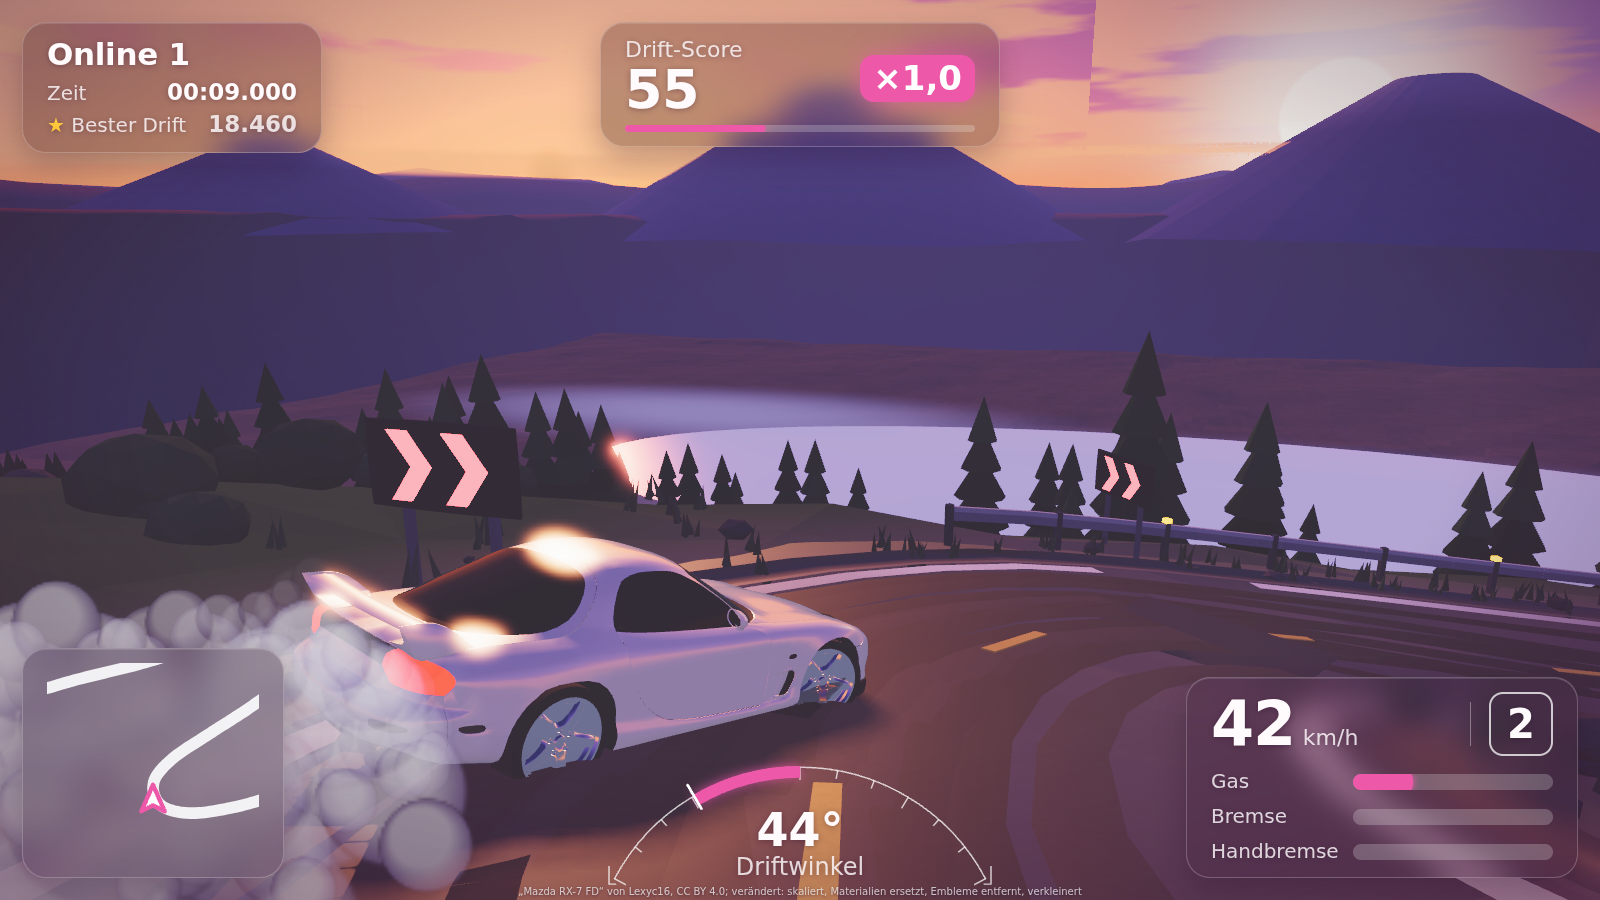
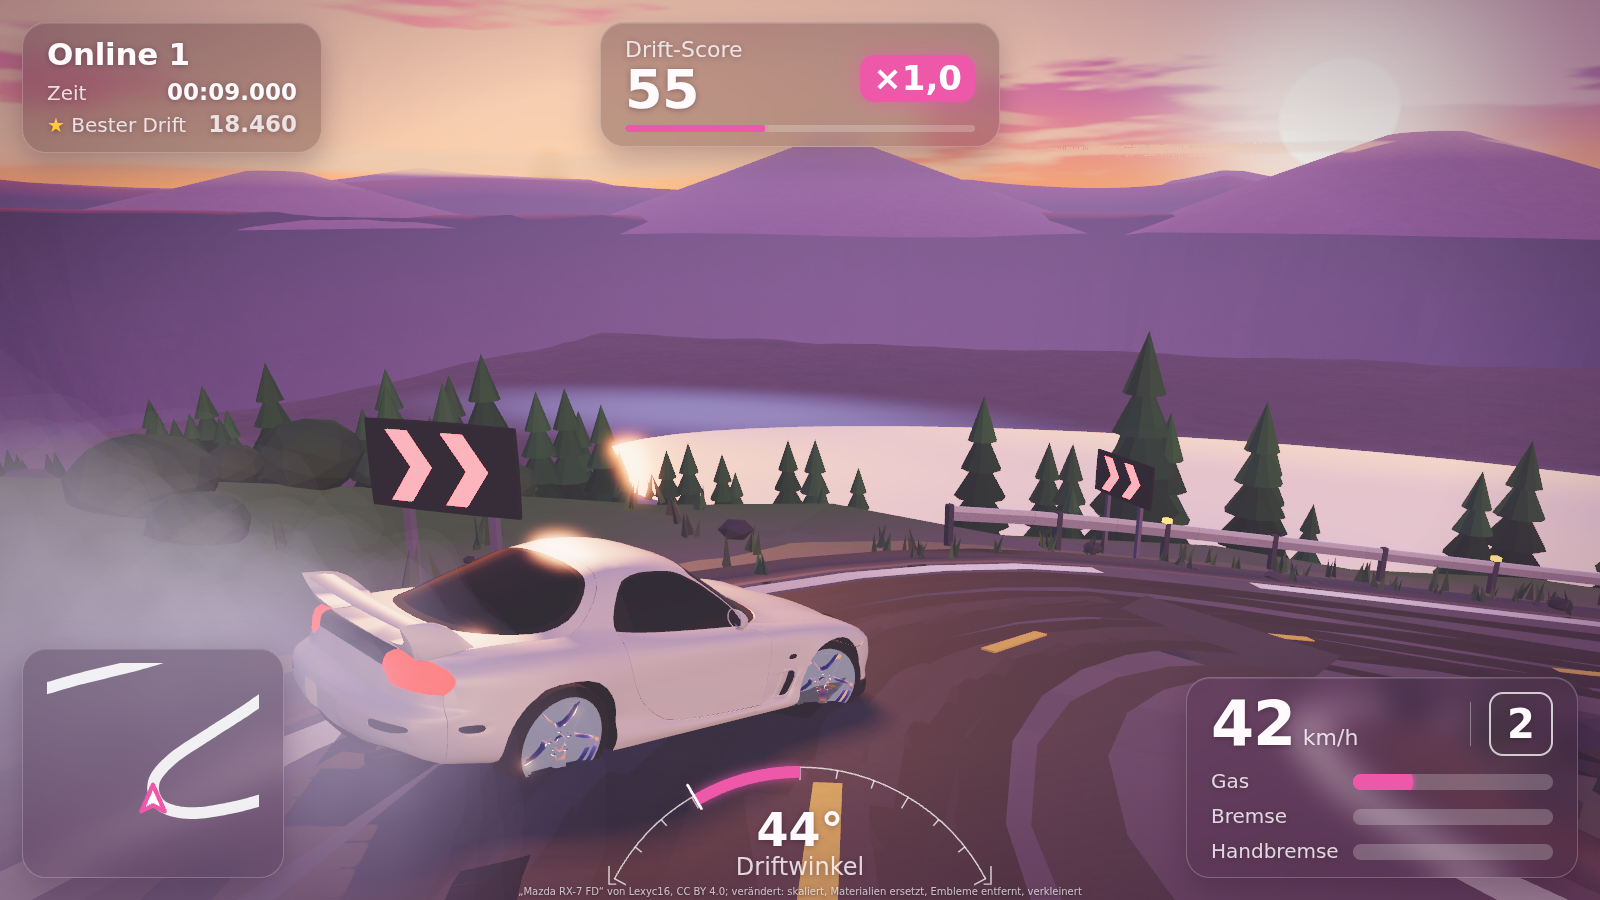
Touge look round 3: soft noise-frayed smoke wisps, tamed clear-coat highlight (look.car.gloss), a second warm key light (look.key2), greener foreground, warm-hazed lower volcanoes, the lake mirrors the orange sky, grey road, no sky seam; LOOK-LOG.md

diff --git a/game/view/look/billows.js b/game/view/look/billows.js
@@ -3,6 +3,25 @@
 // two triangles a puff.
 import * as THREE from '../../../vendor/three/three.module.js';
 
+/** A soft wisp (look.smoke.texture 'wisp'): one blurred blob whose alpha is frayed by value noise, light on top, shaded below; no round edges. */
+function wispTexture(light, shade, size = 128) {
+  const c = document.createElement('canvas'); c.width = c.height = size;
+  const x = c.getContext('2d'), img = x.createImageData(size, size), L = new THREE.Color(light), D = new THREE.Color(shade);
+  const h = (i, j) => { const v = Math.sin(i * 127.1 + j * 311.7) * 43758.5453; return v - Math.floor(v); };
+  const vn = (u, v) => { const i = Math.floor(u), j = Math.floor(v), fu = u - i, fv = v - j, su = fu * fu * (3 - 2 * fu), sv = fv * fv * (3 - 2 * fv);
+    return (h(i, j) * (1 - su) + h(i + 1, j) * su) * (1 - sv) + (h(i, j + 1) * (1 - su) + h(i + 1, j + 1) * su) * sv; };
+  const fbm = (u, v) => vn(u, v) * 0.5 + vn(u * 2.1, v * 2.1) * 0.3 + vn(u * 4.3, v * 4.3) * 0.2;
+  for (let py = 0; py < size; py++) for (let px = 0; px < size; px++) {
+    const u = px / size - 0.5, v = py / size - 0.5, r = Math.hypot(u, v * 1.15) * 2, n = fbm(px / size * 5 + 3, py / size * 5 + 7);
+    const a = Math.max(0, Math.min(1, (1 - r * r * 1.15) * 1.25 - (1 - n) * 0.75)) ** 1.6;
+    const t = Math.min(1, Math.max(0, 0.65 - v * 1.3 + (n - 0.5) * 0.3)), i = (py * size + px) * 4;
+    img.data[i] = (D.r + (L.r - D.r) * t) * 255; img.data[i + 1] = (D.g + (L.g - D.g) * t) * 255; img.data[i + 2] = (D.b + (L.b - D.b) * t) * 255; img.data[i + 3] = a * 255;
+  }
+  x.putImageData(img, 0, 0);
+  const tex = new THREE.CanvasTexture(c); tex.colorSpace = THREE.SRGBColorSpace;
+  return tex;
+}
+
 /** A cluster of soft round puffs on a canvas (no file). */
 function billowTexture(light, shade, size = 128) {
   const c = document.createElement('canvas'); c.width = c.height = size;
@@ -29,7 +48,7 @@ export class Billows {
     this.car = { value: new THREE.Vector3(0, -999, 0) };
     const S = look.smoke;
     this.material = new THREE.ShaderMaterial({
-      uniforms: { tMap: { value: billowTexture(S.colour, S.shade) }, uCar: this.car, uCarView: { value: new THREE.Vector4(0, 0, 0, 0) }, uClear: { value: S.clear ?? 0 }, uNear: { value: S.near ?? 3 }, uTint: { value: new THREE.Color(S.tint ?? '#ffffff').multiplyScalar(S.bright ?? 1) } },   // brighter than white: lit by the low sun
+      uniforms: { tMap: { value: S.texture === 'wisp' ? wispTexture(S.colour, S.shade) : billowTexture(S.colour, S.shade) }, uCar: this.car, uCarView: { value: new THREE.Vector4(0, 0, 0, 0) }, uClear: { value: S.clear ?? 0 }, uNear: { value: S.near ?? 3 }, uTint: { value: new THREE.Color(S.tint ?? '#ffffff').multiplyScalar(S.bright ?? 1) } },   // brighter than white: lit by the low sun
       vertexShader: /* glsl */ `
         attribute vec4 aData; attribute vec2 aAlpha;
         uniform vec4 uCarView;   // the car in view space (xyz) and its radius on screen (w, in view units at its depth)

diff --git a/game/view/look/stage.js b/game/view/look/stage.js
@@ -39,7 +39,8 @@ export function createStage({ canvas, look, scene0, tierName = 'high', shadowSpa
   const camera = new THREE.PerspectiveCamera(55, 1, 0.5, 2600);
   const hemi = new THREE.HemisphereLight(0xffffff, 0x888888, 1);
   const sun = new THREE.DirectionalLight(0xffffff, 1);
-  scene.add(hemi, sun, sun.target);
+  const key2 = new THREE.DirectionalLight(0xffffff, 0);   // look.key2: a second warm light (grazing light from the bright side of the sky)
+  scene.add(hemi, sun, sun.target, key2, key2.target);
   // a look may lack a tier (older looks have high and low only): medium falls back to low
   const tierOf = (lk, name) => lk.tiers[name] ?? lk.tiers[name === 'medium' ? 'low' : 'high'];
   const tier0 = tierOf(look, tierName);
@@ -73,6 +74,7 @@ export function createStage({ canvas, look, scene0, tierName = 'high', shadowSpa
       stage.sunDir = sunDirection(newLook);
       hemi.color.set(newLook.fill.sky); hemi.groundColor.set(newLook.fill.ground); hemi.intensity = newLook.fill.intensity;
       sun.color.set(newLook.sun.colour); sun.intensity = newLook.sun.intensity;
+      const k2 = newLook.key2; key2.intensity = k2?.intensity ?? 0; if (k2) { key2.color.set(k2.colour); key2.position.set(-k2.dir[0] * 100, k2.dir[1] * 100, k2.dir[2] * 100); }
       stage.sky = makeSky(newLook, 2200);
       scene.add(stage.sky);
       // the cloud bands of their own (in front of the dome, so the bloom does not wash them out)
@@ -144,6 +146,9 @@ export function carMaker(stage) {
     const { look, env, carTier } = stage;
     const materials = carMaterials({ tier: carTier, paint: new THREE.Color(paint).getHex(), env });
     if (look.car?.tail) materials.light_rear.color.set(look.car.tail).multiplyScalar(look.car.tailGlow ?? 1);
+    // look.car.gloss: { env, roughness, coat }: how much of the sky the paint mirrors (dusk: less, so the roof shows its shape, not white)
+    const gl = look.car?.gloss;
+    if (gl) { const p = materials.paint; if (gl.env !== undefined) p.envMapIntensity = gl.env; if (gl.roughness !== undefined) p.roughness = gl.roughness; if (gl.coat !== undefined && p.clearcoatRoughness !== undefined) p.clearcoatRoughness = gl.coat; if (gl.clearcoat !== undefined && p.clearcoat !== undefined) p.clearcoat = gl.clearcoat; }
     const m = model ? await loadCarModel(model, { tier: carTier, materials }) : null;
     return m ? { ...m, materials } : buildS15({ paint: new THREE.Color(paint).getHex(), kit, tier: carTier, env });
   };

diff --git a/game/view/look/world.js b/game/view/look/world.js
@@ -162,7 +162,7 @@ function volcanoes(S, scene, look) {
   const haze = C(look.fog.colour);
   for (const [x, z, r, h, k] of scene.volcanoes ?? []) {
     // air between: the farther layer the more of the haze; a lighter crater rim (snow or bare rock, look.volcano.rim) at the top
-    const V = look.volcano ?? {}, base = C(look.ridges[Math.min(look.ridges.length - 1, k ?? 0)]).lerp(haze, V.haze ?? 0.35), top = base.clone().lerp(C(V.rim ?? '#ffffff'), V.rimMix ?? 0.15);
+    const V = look.volcano ?? {}, vh = C(V.hazeColour ?? look.fog.colour), base = C(look.ridges[Math.min(look.ridges.length - 1, k ?? 0)]).lerp(vh, V.haze ?? 0.35), top = base.clone().lerp(C(V.rim ?? '#ffffff'), V.rimMix ?? 0.15);
     const g = new THREE.CylinderGeometry(r * 0.12, r, h, 28, 3, true);
     const p = g.attributes.position, col = new Float32Array(p.count * 3), c = new THREE.Color();
     for (let i = 0; i < p.count; i++) { const t = (p.getY(i) + h / 2) / h, a = Math.atan2(p.getZ(i), p.getX(i)); p.setY(i, p.getY(i) + noise2(a * 3 + x, t * 4) * h * 0.04 * (1 - t)); c.copy(base).lerp(top, smoothstep(0.75, 0.95, t)).lerp(haze, (1 - t) * 0.45); col.set([c.r, c.g, c.b], i * 3); }

diff --git a/game/view/look/sky.js b/game/view/look/sky.js
@@ -44,7 +44,8 @@ export function makeSky(look, radius = 1800) {
         col = mix(col, uGlow, pow(c, 3.0) * band * 0.5 * uStrength);           // the warm side of the sky
         col += uGlow * (pow(c, 12.0) * 0.45 + pow(c, 80.0) * 0.9) * uStrength;  // the soft halo round the sun
         // soft streaks of cloud above the horizon, lit from below on the sun's side
-        float az = atan(d.x, d.z);
+        // azimuth measured from the sun, so the seam of atan (at +-pi) lies behind the viewer when looking towards the sun side
+        vec2 sh = normalize(uSunDir.xz + vec2(1e-4)); float az = atan(d.x * sh.y - d.z * sh.x, d.x * sh.x + d.z * sh.y);
         float n = fbm(vec2(az * 3.2 + 1.7, e * 26.0)) * 0.75 + fbm(vec2(az * 10.0, e * 60.0)) * 0.25 + pow(c, 5.0) * 0.18;   // long thin streaks, gathered round the sun
         float dens = smoothstep(0.44, 0.52, n) * smoothstep(0.035, 0.07, e) * (1.0 - smoothstep(0.22, 0.32, e)) * uClouds;
         vec3 cc = mix(uCloudShade, uCloudLit, clamp(pow(c, 3.0) * 1.2 + 0.1, 0.0, 1.0)) + uGlow * pow(c, 40.0) * 0.5;   // golden edges near the sun

diff --git a/docs/LOOK-LOG.md b/docs/LOOK-LOG.md
@@ -349,3 +349,18 @@ On master the land is no longer a shadow receiver (the drift chat: the VSM pass 
 to keep the high tier under 400k triangles a frame: high cell 4.5 m, 550 + 320 cedars, 3500 far trees, cedar 5 tiers; medium cell 6 m,
 320 + 200 cedars, 2000 far trees. Measured (probe, drift view, including shadow and bloom passes): high 336k triangles / 49 calls
 (world 250k; before 995k), medium 190k / 49 (world 108k), low world 59k. The picture is unchanged by eye.
+
+## Touge round 3 (2026-11-26): the orchestrator's review of round 2
+
+1. Smoke: a soft wisp texture drawn from value noise (`look.smoke.texture: 'wisp'`: one blurred blob with frayed alpha, light on top,
+   shaded below), fewer and bigger sprites (90 on high), so the trails run into each other without round edges.
+2. The bright spots on the roof and the rear window were the clear coat's highlight (not bloom): `look.car.gloss` (env, roughness, coat,
+   clearcoat) tames the paint for dusk; carMaker applies it to the paint material of every car.
+3. Light: a second warm key light from the bright side of the sky (`look.key2`), stronger fill, greener cedars and land: the
+   foreground keeps its own colours instead of dark violet silhouettes.
+4. Volcanoes lower, hazed towards a warm haze colour (`look.volcano.hazeColour`), a lit crater rim; a lighter, warmer fog.
+5. The lake mirrors the orange sky (water `light` orange, stronger glow).
+6. The dark smudge behind the drift-score card was the blurred peak of a volcano behind the frosted card: the peaks are lower now.
+   A seam in the sky (the azimuth of the cloud streaks jumped at +-180 degrees) is gone: azimuth now measured from the sun.
+7. Road: neutral grey asphalt, little sheen, clear edge and centre lines.
+Numbers unchanged: high 336k triangles / 49 calls.
